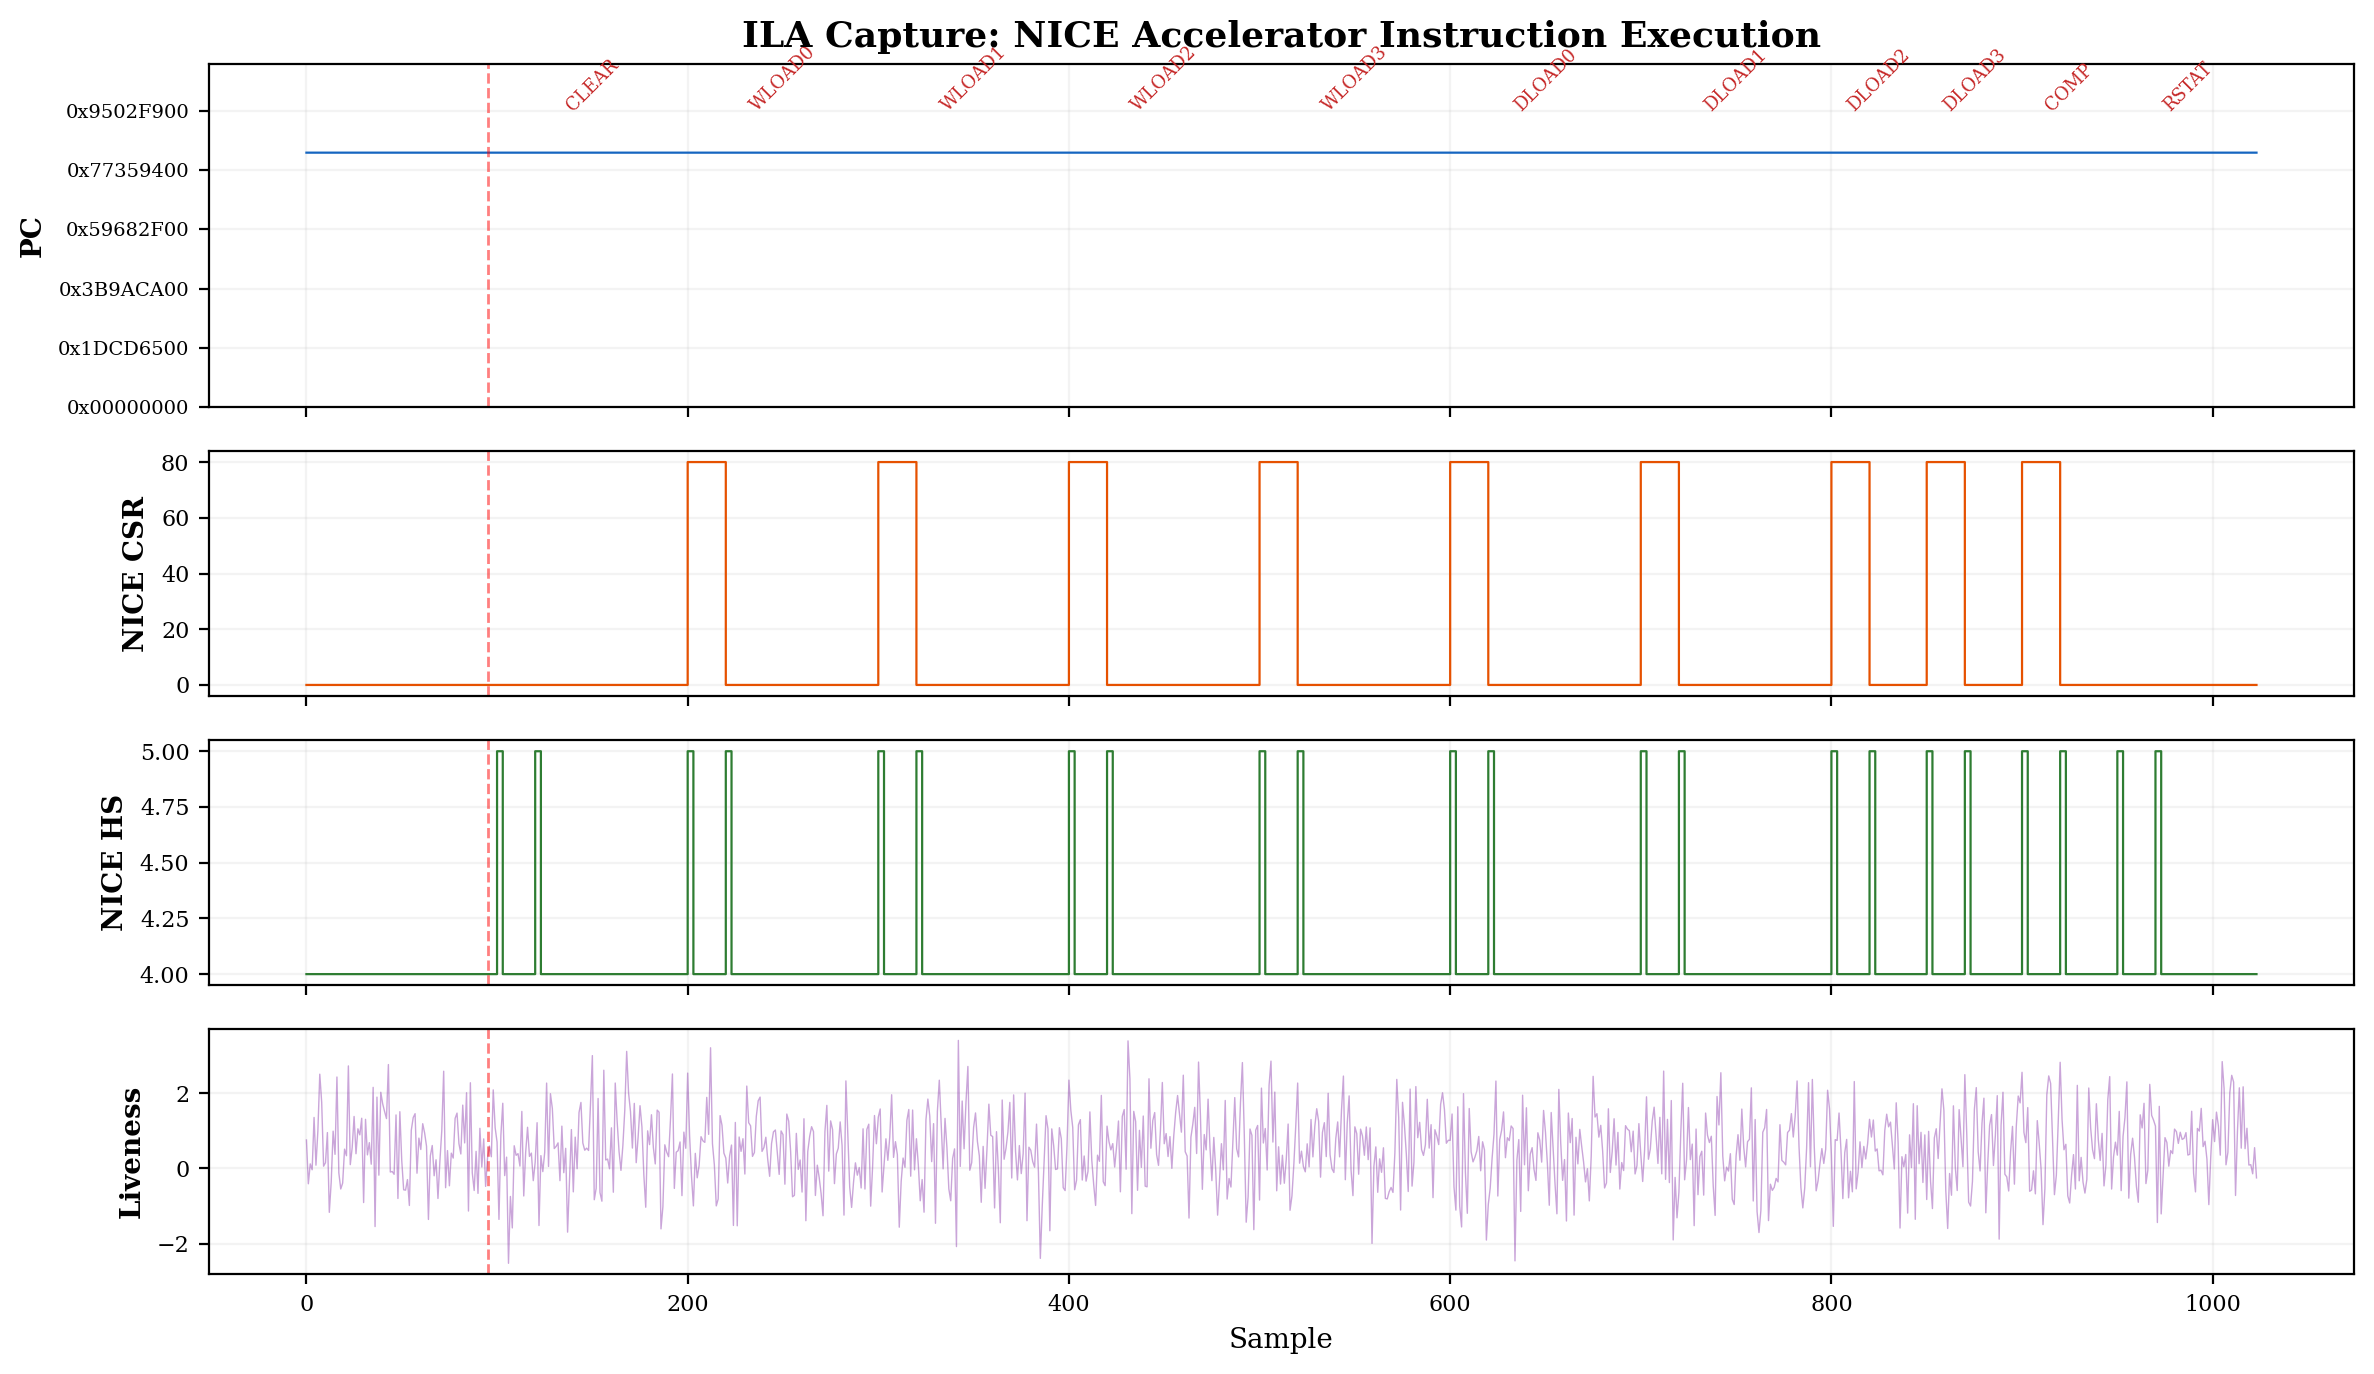
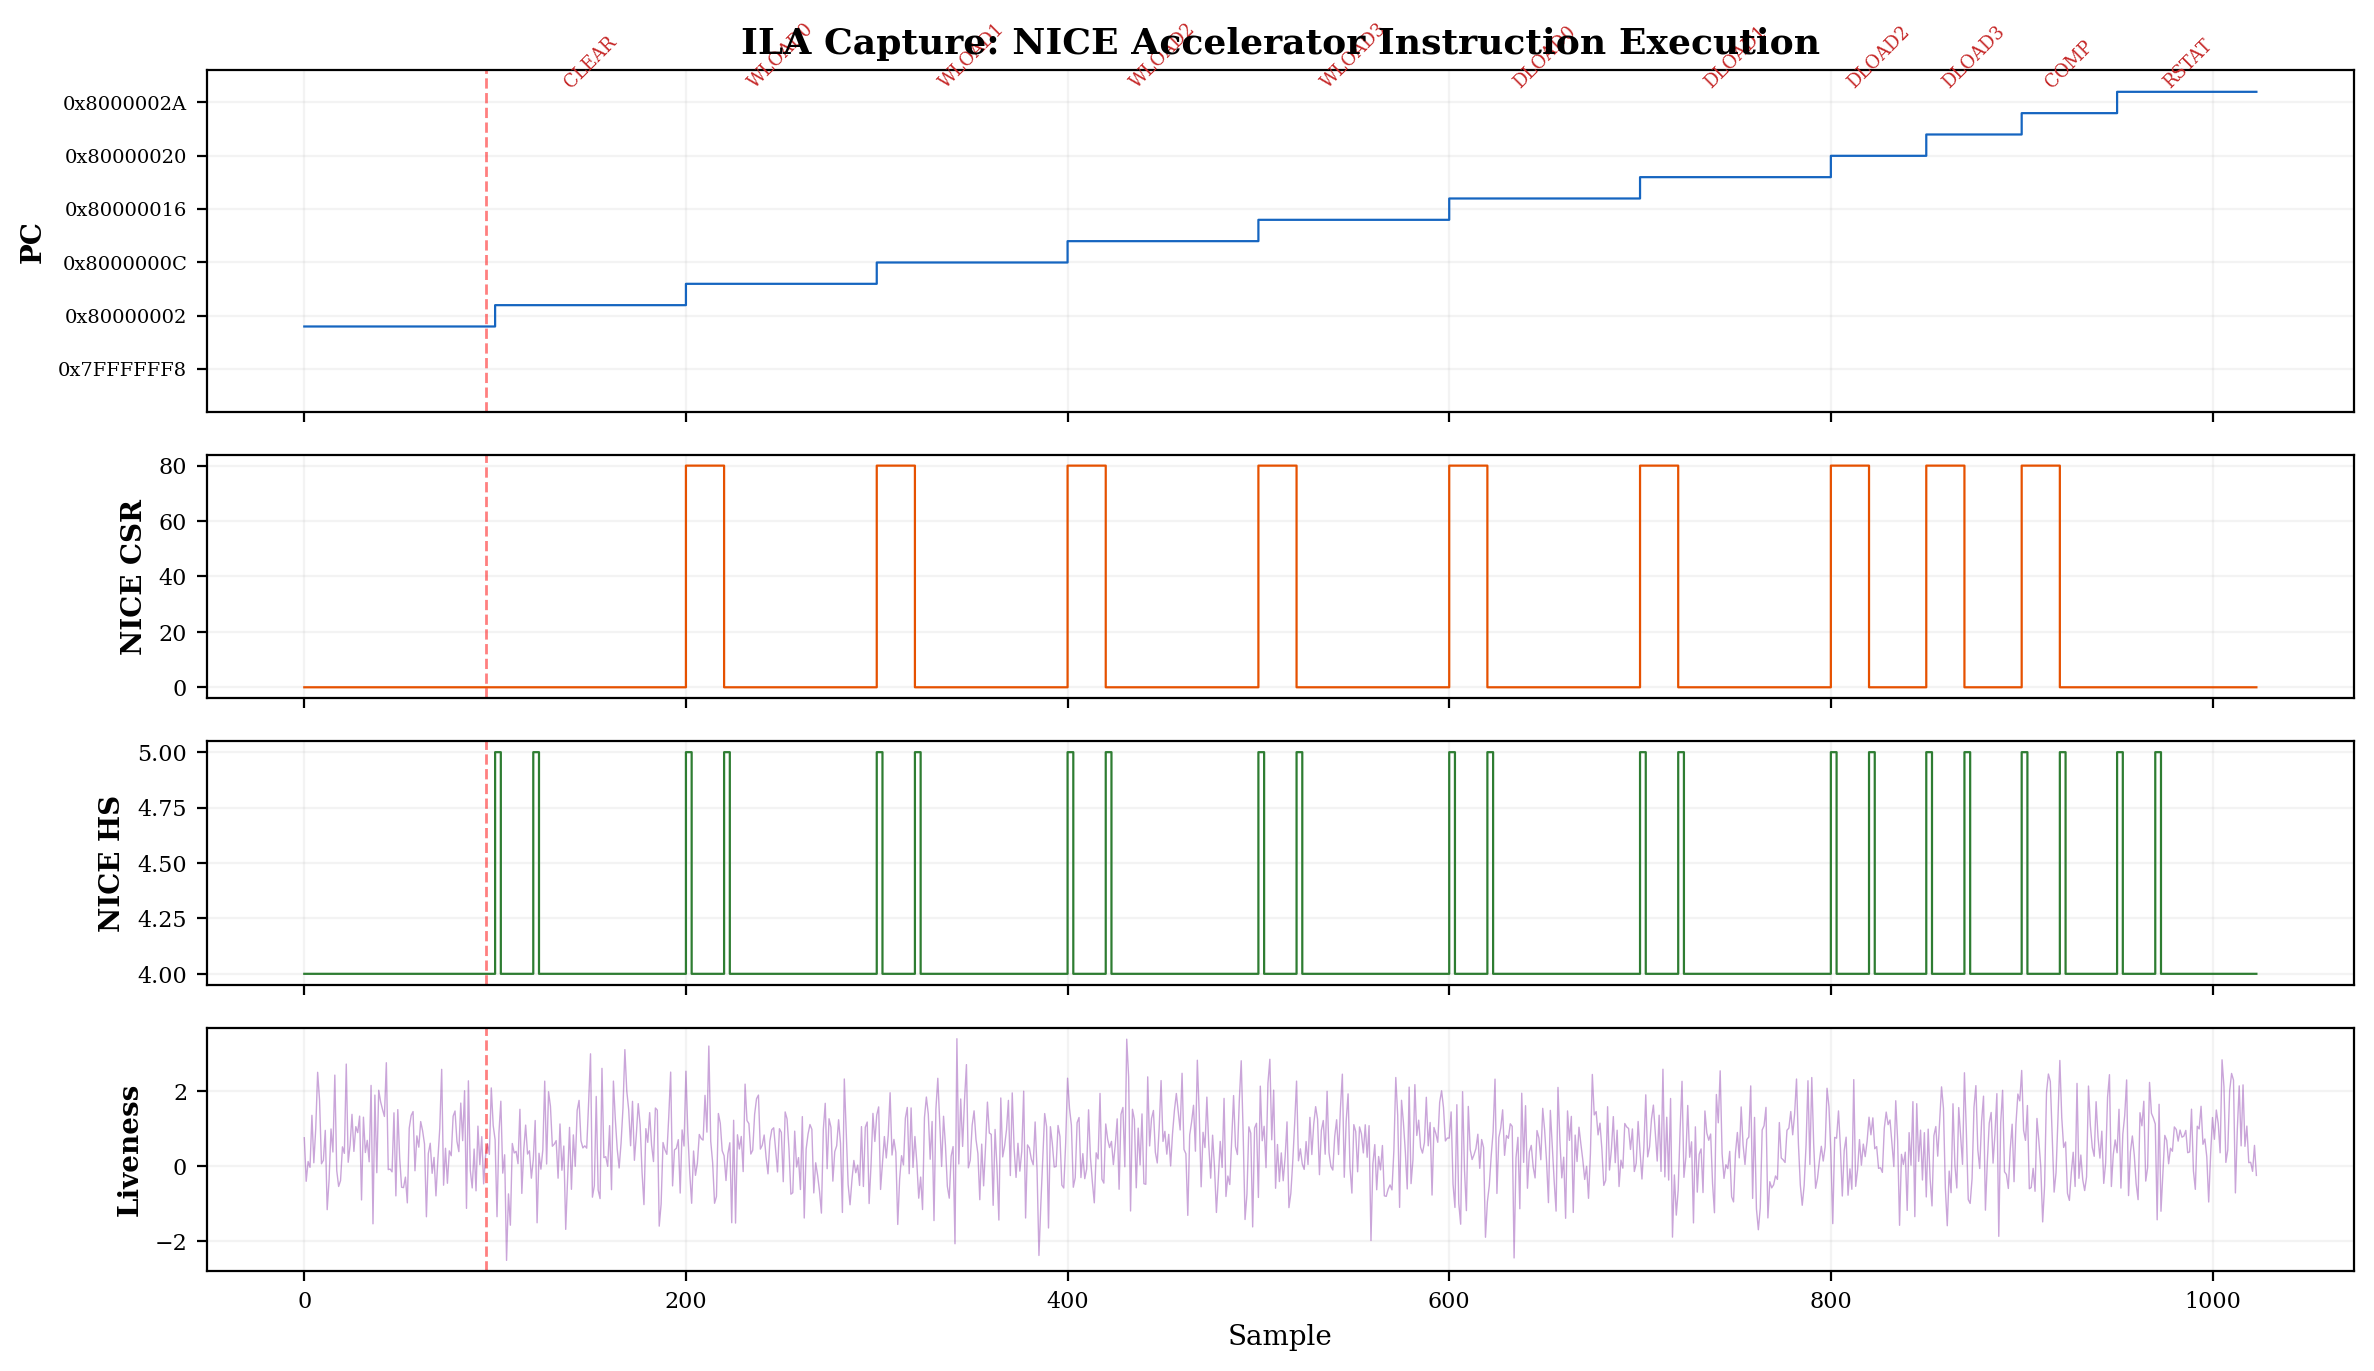
fix: zoom PC Y-axis in ILA NICE activity figure so step-wise progression is visible
Previously the PC subplot used a Y-axis from 0 to 0x80000030, making the
4-byte instruction steps invisible against the 2-billion-unit scale. Now
the Y-axis is zoomed to [0x7FFFFFF0, 0x80000030] so each PC increment is
clearly visible as a step.

diff --git a/thesis_latex/.build/fix_figures.py b/thesis_latex/.build/fix_figures.py
@@ -243,19 +243,22 @@ def gen_ila_nice_activity():
     axes[3].grid(True, alpha=0.15)
     axes[3].tick_params(labelsize=8)
 
+    # Zoom Y-axis to PC range so step-wise progression is visible
+    pc_min = 0x80000000 - 0x10
+    pc_max = 0x80000030
+    axes[0].set_ylim(pc_min, pc_max)
+
     # Annotations — above the chart area to avoid overlap
     instructions = ['CLEAR', 'WLOAD0', 'WLOAD1', 'WLOAD2', 'WLOAD3',
                     'DLOAD0', 'DLOAD1', 'DLOAD2', 'DLOAD3', 'COMP', 'RSTAT']
     centers = [150, 250, 350, 450, 550, 650, 750, 825, 875, 925, 987]
     for name, cx in zip(instructions, centers):
-        axes[0].text(cx, pc_base.max() * 1.15, name, fontsize=6.5, color='#C62828',
+        axes[0].text(cx, pc_max - 4, name, fontsize=6.5, color='#C62828',
                      ha='center', va='bottom', rotation=45)
 
     # Trigger
     for ax in axes:
         ax.axvline(x=95, color='red', linestyle='--', linewidth=1.0, alpha=0.5)
-
-    axes[0].set_ylim(0, pc_base.max() * 1.35)  # Extra room for labels
     axes[0].set_title('ILA Capture: NICE Accelerator Instruction Execution', fontsize=13, fontweight='bold')
     axes[-1].set_xlabel('Sample', fontsize=10)
 